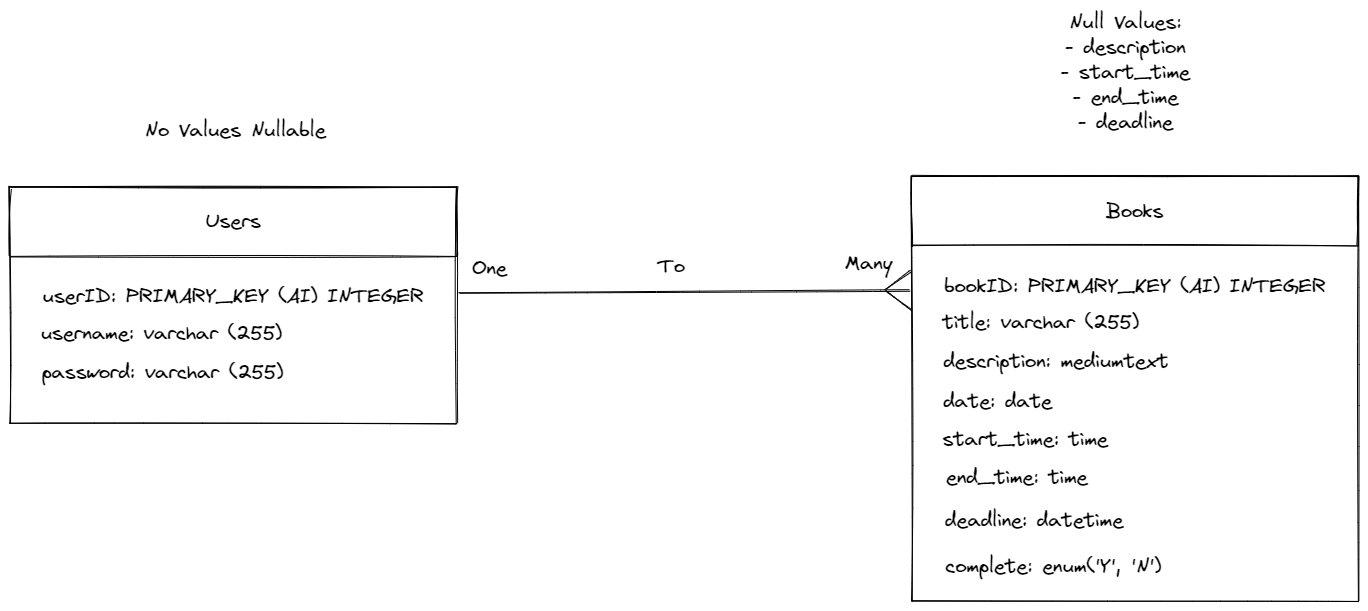
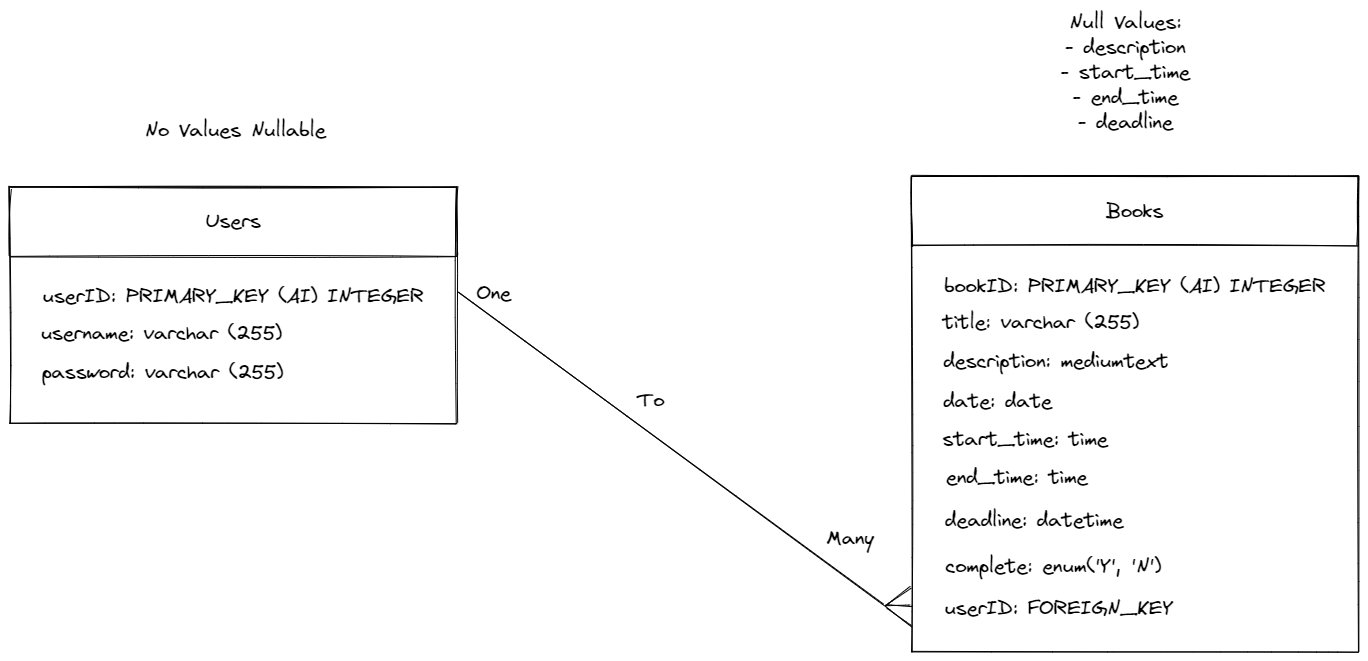
updated readme and db Mockup

diff --git a/README.md b/README.md
@@ -28,13 +28,16 @@ Your company has been approached to develop and Application that allows their us
 
 <b>TODO:</b>
 - [ ]  An appropriate database backend that demonstrates you have considered the assessment scenario and all requirements you have implemented
-- [ ] Appropriate data models implemented in your application
-- [ ] Read records from a database and return valid XML or JSON output
-- [ ] Create records in a database and return valid XML or JSON output
-- [ ] Update records in a database and return valid XML or JSON output
-- [ ] Delete records from a database and return valid XML or JSON output
+- [x] Appropriate data models implemented in your application
+- [x] Read records from a database and return valid XML or JSON output
+- [x] Create records in a database and return valid XML or JSON output
+- [x] Update records in a database and return valid XML or JSON output
+- [x] Delete records from a database and return valid XML or JSON output
 - [x] Provide valid returns in both XML and JSON
 - [x] Implement  appropriate  security  so  that  a  user  is  required  to  authenticate  to carry out tasks (such as Create, Update and Delete requests)
+
+<b>Personal TODO:</b>
+- [ ] Only allow users to see books from their user ID 
 
 Assignment has now been handed out therefore the requirements unstruck and new scenario
 
